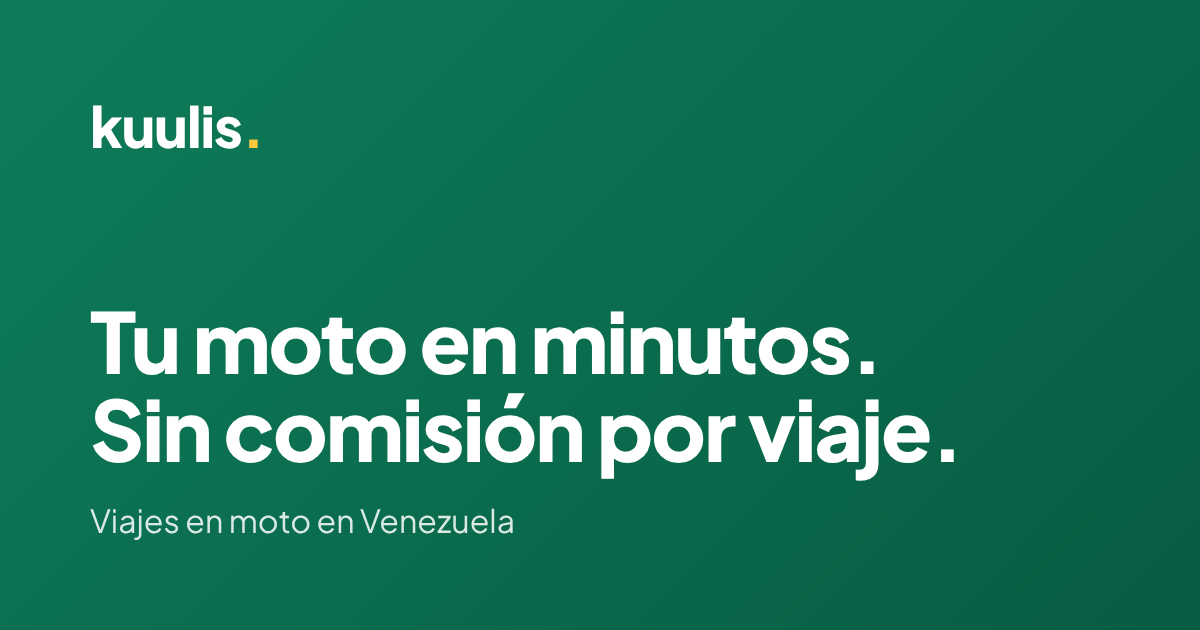
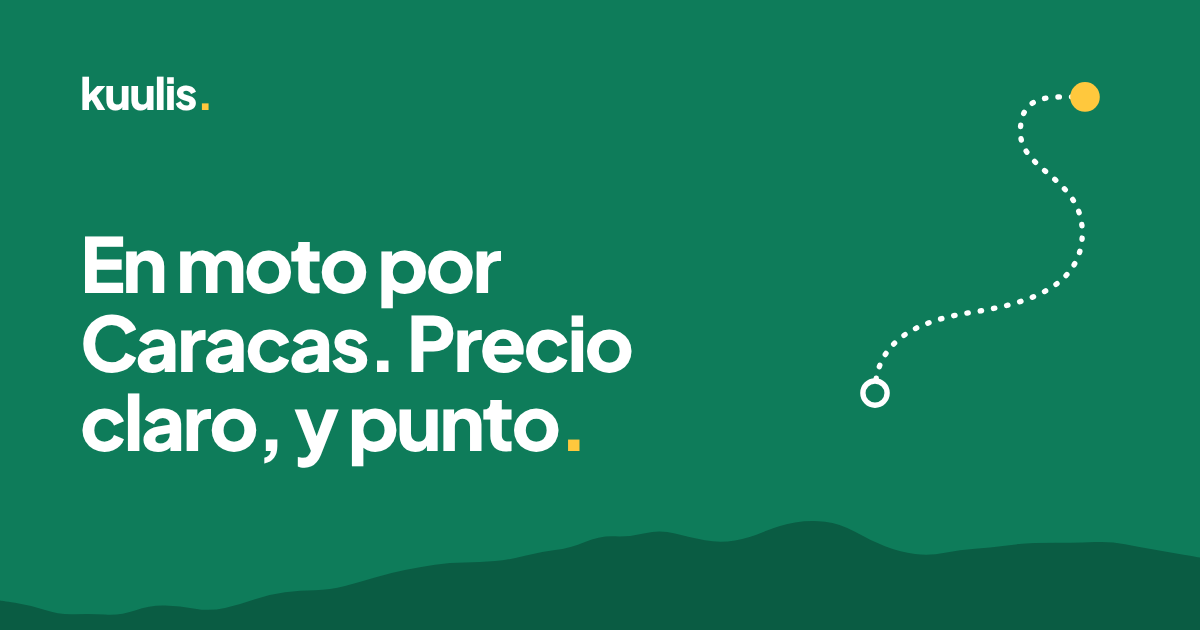
Web: imágenes para compartir por página e idioma (rediseño M8, parte A8)
Cada página principal (inicio, motorizados, seguridad, descargar) comparte su
propia imagen 1200×630 en su idioma, con su titular, el logotipo, la ruta y el
Ávila. `pnpm og` las genera desde los títulos de i18n. og.png pasa de 275 KB a
44 KB.

Claude-Session: https://claude.ai/code/session_01BANr6BHywLNR1G6CBTkYxZ

diff --git a/web/app/composables/useLocaleSeo.ts b/web/app/composables/useLocaleSeo.ts
@@ -4,11 +4,22 @@ export const PRIVATE_PAGES = new Set(['v-token', 'i-code', 'verify-email', 'rese
 const OG_LOCALE: Record<string, string> = { es: 'es_VE', en: 'en_US' }
 
 /**
- * Canonical URL, hreflang alternates (es-VE, en, x-default → Spanish) and og:locale for the current page, absolute
- * with NUXT_PUBLIC_SITE_URL (docs/website-redesign/06 §5). The query string is left out of all of them.
+ * Route name → its link-preview image in public/og/ (made by `pnpm og`, docs/website-redesign/05 A8) and the title
+ * it shows, for the alt text. Every other page shares the home image.
+ */
+export const OG_PAGES: Record<string, { image: string, title: string }> = {
+  index: { image: 'home', title: 'home.hero.title' },
+  motorizados: { image: 'drivers', title: 'drivers.title' },
+  seguridad: { image: 'safety', title: 'safety.title' },
+  descargar: { image: 'download', title: 'download.title' },
+}
+
+/**
+ * Canonical URL, hreflang alternates (es-VE, en, x-default → Spanish), og:locale and og:image for the current page,
+ * absolute with NUXT_PUBLIC_SITE_URL (docs/website-redesign/06 §5). The query string is left out of all of them.
  */
 export function useLocaleSeo() {
-  const { locale, locales } = useI18n()
+  const { locale, locales, t } = useI18n()
   const route = useRoute()
   const routeBaseName = useRouteBaseName()
   const switchLocalePath = useSwitchLocalePath()
@@ -16,6 +27,7 @@ export function useLocaleSeo() {
   const absolute = (path: string) => `${site}${path.split('?')[0]!.split('#')[0]}`
 
   const indexable = computed(() => !PRIVATE_PAGES.has(String(routeBaseName(route) ?? '')))
+  const og = computed(() => OG_PAGES[String(routeBaseName(route) ?? '')] ?? OG_PAGES.index!)
 
   useHead(() => {
     if (!indexable.value) return {}
@@ -34,5 +46,11 @@ export function useLocaleSeo() {
     ogLocale: () => OG_LOCALE[locale.value],
     ogLocaleAlternate: () => Object.entries(OG_LOCALE).filter(([code]) => code !== locale.value).map(([, value]) => value),
     ogUrl: () => (indexable.value ? absolute(switchLocalePath(locale.value)) : undefined),
+    // Link previews (WhatsApp, Telegram) need an absolute image URL.
+    ogImage: () => `${site}/og/${og.value.image}-${locale.value}.png`,
+    ogImageWidth: 1200,
+    ogImageHeight: 630,
+    ogImageType: 'image/png',
+    ogImageAlt: () => t(og.value.title),
   })
 }

diff --git a/web/tests/e2e/i18n.spec.ts b/web/tests/e2e/i18n.spec.ts
@@ -51,6 +51,23 @@ test.describe('Spanish browser', () => {
     expect(sitemap).toContain('hreflang="x-default"')
   })
 
+  test('each main page shares its own image, in the page language', async ({ page, request }) => {
+    const pages = [
+      ['/', 'home-es'], ['/en', 'home-en'], ['/motorizados', 'drivers-es'], ['/en/drivers', 'drivers-en'],
+      ['/seguridad', 'safety-es'], ['/en/safety', 'safety-en'], ['/descargar', 'download-es'], ['/en/download', 'download-en'],
+      ['/ayuda', 'home-es'],
+    ]
+    for (const [path, image] of pages) {
+      await page.goto(path)
+      const url = new URL((await page.locator('meta[property="og:image"]').getAttribute('content'))!)
+      expect(url.pathname, path).toBe(`/og/${image}.png`)
+      expect(await page.locator('meta[property="og:image:alt"]').getAttribute('content'), path).toBeTruthy()
+      const file = await request.get(url.pathname)
+      expect(file.status(), path).toBe(200)
+      expect(file.headers()['content-type']).toBe('image/png')
+    }
+  })
+
   test('every internal link on an English page stays in English', async ({ page }) => {
     await page.goto('/en/drivers', { waitUntil: 'networkidle' })
     const hrefs = await page.locator('a[href^="/"]:not([hreflang])').evaluateAll(links => links.map(a => a.getAttribute('href')!))

diff --git a/web/app/app.vue b/web/app/app.vue
@@ -3,13 +3,10 @@
 import fontLatin from '@fontsource-variable/plus-jakarta-sans/files/plus-jakarta-sans-latin-wght-normal.woff2?url'
 
 const { locale } = useI18n()
-const { siteUrl } = useRuntimeConfig().public
 useHead({
   htmlAttrs: { lang: locale },
   link: [{ rel: 'preload', as: 'font', type: 'font/woff2', href: fontLatin, crossorigin: '' }],
 })
-// Link previews (WhatsApp, Telegram) need an absolute image URL.
-useSeoMeta({ ogImage: `${siteUrl.replace(/\/$/, '')}/og.png` })
 useLocaleSeo()
 </script>
 

diff --git a/docs/website-redesign/07-phased-execution-roadmap.md b/docs/website-redesign/07-phased-execution-roadmap.md
@@ -194,6 +194,14 @@ Reglas para todos los milestones:
 - **Validación:** V + Lighthouse + revisión visual de capturas.
 - **Depende de:** M3, M4, M6, M7.
 - **Riesgos:** retrasos en la producción de capturas → M3/M4 pueden ir con capturas reales provisionales de QA.
+- **Hecho en parte 2026-10-17 (A8):** una imagen para compartir por página principal e idioma (inicio,
+  motorizados, seguridad, descargar; `web/public/og/{home,drivers,safety,download}-{es,en}.png`, 1200×630, 26–50
+  KB). Campo verde, titular de la página en blanco con su punto amarillo, logotipo, ruta y el Ávila. Las genera
+  `pnpm og` (`web/scripts/og-images.mjs`, Chromium de Playwright) a partir del título de cada página en
+  `i18n/locales`, así que un cambio de texto solo pide volver a ejecutarlo. `useLocaleSeo` elige la imagen por
+  página e idioma y añade tamaño, tipo y `og:image:alt`; las demás páginas usan la del inicio. `og.png` (275 KB)
+  pasa a ser una copia ligera de la del inicio para enlaces viejos. Pendiente: capturas A1/A2 cuando Carlos las
+  envíe.
 
 ## M9 · Movimiento, responsive fino y accesibilidad
 - **Objetivo:** pulido.

diff --git a/docs/website-redesign/README.md b/docs/website-redesign/README.md
@@ -50,4 +50,4 @@ Carlos respondió «apruebo todo»: vale la opción recomendada de cada pregunta
 | M4 · Inicio: resto de secciones | Hecho 2026-10-17 (ver 07 M4) |
 | M6 · Motorizados y Seguridad | Hecho 2026-10-17 (ver 07 M6) |
 | M7 · Descargar y páginas secundarias | Hecho 2026-10-17 (ver 07 M7) |
-| M8 · Producción e integración de assets | Siguiente |
+| M8 · Producción e integración de assets | En parte 2026-10-17: imágenes para compartir; faltan capturas de la app (ver 07 M8) |
